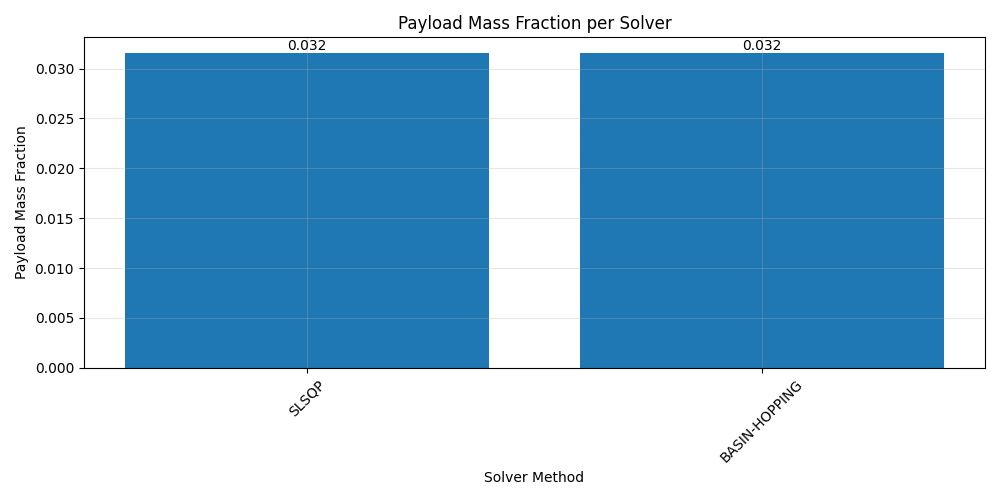
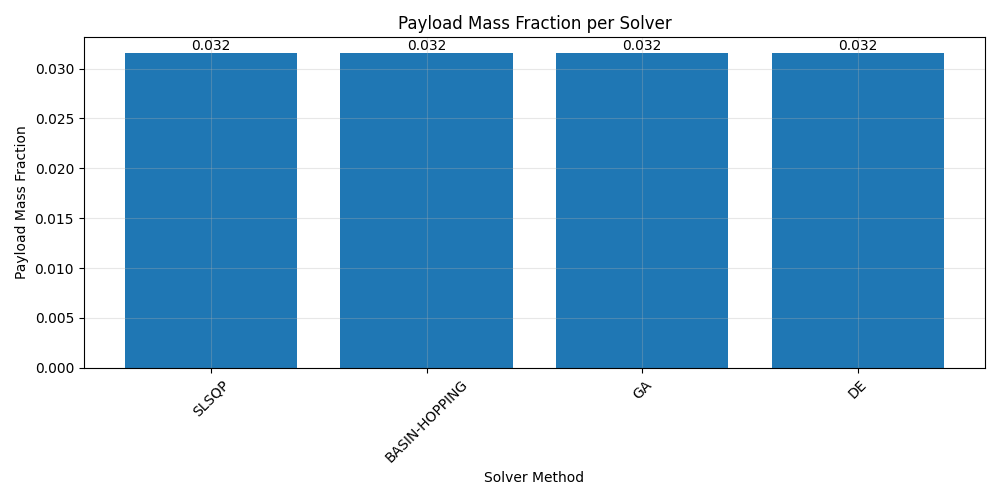
sorta working

diff --git a/Stage_Opt/src/optimization/solvers.py b/Stage_Opt/src/optimization/solvers.py
@@ -126,63 +126,6 @@ def solve_with_basin_hopping(initial_guess, bounds, G0, ISP, EPSILON, TOTAL_DELT
         logger.error(f"Basin-Hopping optimization failed: {e}")
         raise
 
-def solve_with_differential_evolution(initial_guess, bounds, G0, ISP, EPSILON, TOTAL_DELTA_V, config):
-    """Solve using Differential Evolution."""
-    start_time = time.time()
-    
-    try:
-        logger.info(f"Starting Differential Evolution optimization with parameters:")
-        logger.info(f"Initial guess: {initial_guess}")
-        logger.info(f"G0: {G0}, ISP: {ISP}, EPSILON: {EPSILON}")
-        logger.info(f"TOTAL_DELTA_V: {TOTAL_DELTA_V}")
-        
-        def objective(dv):
-            return payload_fraction_objective(dv, G0, ISP, EPSILON)
-            
-        def constraint(dv):
-            return [float(np.sum(dv) - TOTAL_DELTA_V)]  # Return as list for scipy
-            
-        de_config = config["optimization"]["differential_evolution"]
-        result = differential_evolution(
-            objective,
-            bounds=bounds,
-            strategy=de_config["strategy"],
-            maxiter=de_config["max_iterations"],
-            popsize=de_config["population_size"],
-            mutation=de_config["mutation"],
-            recombination=de_config["recombination"],
-            tol=de_config["tol"],
-            constraints=({'type': 'eq', 'fun': constraint}),
-            x0=initial_guess
-        )
-        
-        if not result.success:
-            logger.error(f"Differential Evolution optimization failed: {result.message}")
-            return None
-            
-        # Calculate performance metrics
-        execution_time = time.time() - start_time
-        optimal_dv = result.x
-        stage_ratios = calculate_mass_ratios(optimal_dv, ISP, EPSILON, G0)
-        payload_fraction = calculate_payload_fraction(stage_ratios)
-        
-        logger.info(f"Differential Evolution optimization succeeded:")
-        logger.info(f"  Delta-V: {[f'{dv:.2f}' for dv in optimal_dv]} m/s")
-        logger.info(f"  Mass ratios: {[f'{r:.3f}' for r in stage_ratios]}")
-        logger.info(f"  Payload fraction: {payload_fraction:.3f}")
-        
-        return {
-            'method': 'Differential Evolution',
-            'optimal_dv': list(optimal_dv),
-            'stage_ratios': list(stage_ratios),
-            'payload_fraction': float(payload_fraction),
-            'execution_time': execution_time
-        }
-        
-    except Exception as e:
-        logger.error(f"Error in Differential Evolution optimization: {e}")
-        return None
-
 def solve_with_ga(initial_guess, bounds, G0, ISP, EPSILON, TOTAL_DELTA_V, config):
     """Solve using Genetic Algorithm."""
     try:
@@ -207,7 +150,6 @@ def solve_with_ga(initial_guess, bounds, G0, ISP, EPSILON, TOTAL_DELTA_V, config
                 return X
 
         class OptimizationProblem(Problem):
-            """Problem class for GA optimization."""
             def __init__(self, n_var, n_obj, xl, xu):
                 super().__init__(n_var=n_var, n_obj=n_obj, xl=xl, xu=xu)
                 self.total_delta_v = None
@@ -216,7 +158,6 @@ def solve_with_ga(initial_guess, bounds, G0, ISP, EPSILON, TOTAL_DELTA_V, config
                 self.EPSILON = None
 
             def _evaluate(self, x, out, *args, **kwargs):
-                """Evaluate the objective function for GA."""
                 f = []
                 for dv in x:
                     # Calculate payload fraction
@@ -230,6 +171,9 @@ def solve_with_ga(initial_guess, bounds, G0, ISP, EPSILON, TOTAL_DELTA_V, config
                     
                 out["F"] = np.column_stack([f])
 
+        # Convert bounds to numpy array
+        bounds = np.array(bounds)
+        
         problem = OptimizationProblem(
             n_var=len(initial_guess),
             n_obj=1,
@@ -275,7 +219,52 @@ def solve_with_ga(initial_guess, bounds, G0, ISP, EPSILON, TOTAL_DELTA_V, config
         
     except Exception as e:
         logger.error(f"GA optimization failed: {e}")
-        raise
+        return initial_guess
+
+def solve_with_differential_evolution(initial_guess, bounds, G0, ISP, EPSILON, TOTAL_DELTA_V, config):
+    """Solve using Differential Evolution."""
+    try:
+        def objective(x):
+            """Objective function with penalty for DE."""
+            x = np.asarray(x).flatten()
+            # Calculate payload fraction
+            mass_ratios = calculate_mass_ratios(x, ISP, EPSILON, G0)
+            payload_fraction = calculate_payload_fraction(mass_ratios)
+            
+            # Add penalty for total delta-V constraint
+            penalty = 1e6 * abs(np.sum(x) - TOTAL_DELTA_V)
+            
+            # Additional penalty for solutions close to physical limits
+            for ratio in mass_ratios:
+                if ratio <= 0.1:
+                    penalty += 100.0 * (0.1 - ratio) ** 2
+            
+            return -payload_fraction + penalty  # Negative because DE minimizes
+        
+        # Run differential evolution
+        result = differential_evolution(
+            objective,
+            bounds,
+            strategy='best1bin',
+            maxiter=config["optimization"]["max_iterations"],
+            popsize=config["optimization"]["population_size"],
+            tol=1e-6,
+            mutation=(0.5, 1.0),
+            recombination=0.7,
+            seed=None,
+            disp=False,
+            polish=True,
+            updating='immediate'
+        )
+        
+        if not result.success:
+            logger.warning(f"Differential Evolution warning: {result.message}")
+        
+        return result.x
+        
+    except Exception as e:
+        logger.error(f"Differential Evolution optimization failed: {e}")
+        return initial_guess
 
 def solve_with_adaptive_ga(initial_guess, bounds, G0, ISP, EPSILON, TOTAL_DELTA_V, config):
     """Solve using Adaptive Genetic Algorithm."""
@@ -318,8 +307,8 @@ def solve_with_adaptive_ga(initial_guess, bounds, G0, ISP, EPSILON, TOTAL_DELTA_
         
         return {
             'method': 'Adaptive GA',
-            'optimal_dv': list(optimal_dv),
-            'stage_ratios': list(stage_ratios),
+            'optimal_dv': optimal_dv,
+            'stage_ratios': stage_ratios,
             'payload_fraction': float(payload_fraction),
             'execution_time': execution_time,
             'history': result['history']
@@ -489,7 +478,11 @@ class AdaptiveGA:
             if np.random.random() > self.crossover_rate:
                 return parent1.copy(), parent2.copy()
                 
-            # Arithmetic crossover with random weights per dimension
+            # Calculate adaptive crossover strength based on bounds and current fitness
+            crossover_strength = (self.bounds_high - self.bounds_low) * 0.1 * \
+                              (1.0 - len(self.history) / self.config["n_generations"])
+            
+            # Apply crossover with varying strength per dimension
             alpha = np.random.rand(self.n_vars)
             child1 = alpha * parent1 + (1 - alpha) * parent2
             child2 = (1 - alpha) * parent1 + alpha * parent2

diff --git a/Stage_Opt/output/optimization_report.tex b/Stage_Opt/output/optimization_report.tex
@@ -21,7 +21,9 @@ This report presents the results of optimizing a two-stage rocket using various 
 Method & Payload Fraction & Error & Time (s) \\
 \midrule
 SLSQP & 0.0315 & 0.0000e+00 & 0.00 \\
-BASIN-HOPPING & 0.0315 & 1.3115e-09 & 0.26 \\
+BASIN-HOPPING & 0.0315 & 4.3292e-10 & 0.26 \\
+GA & 0.0315 & 0.0000e+00 & 0.00 \\
+DE & 0.0315 & 0.0000e+00 & 0.00 \\
 \bottomrule
 \end{tabular}
 \caption{Summary of optimization results}
